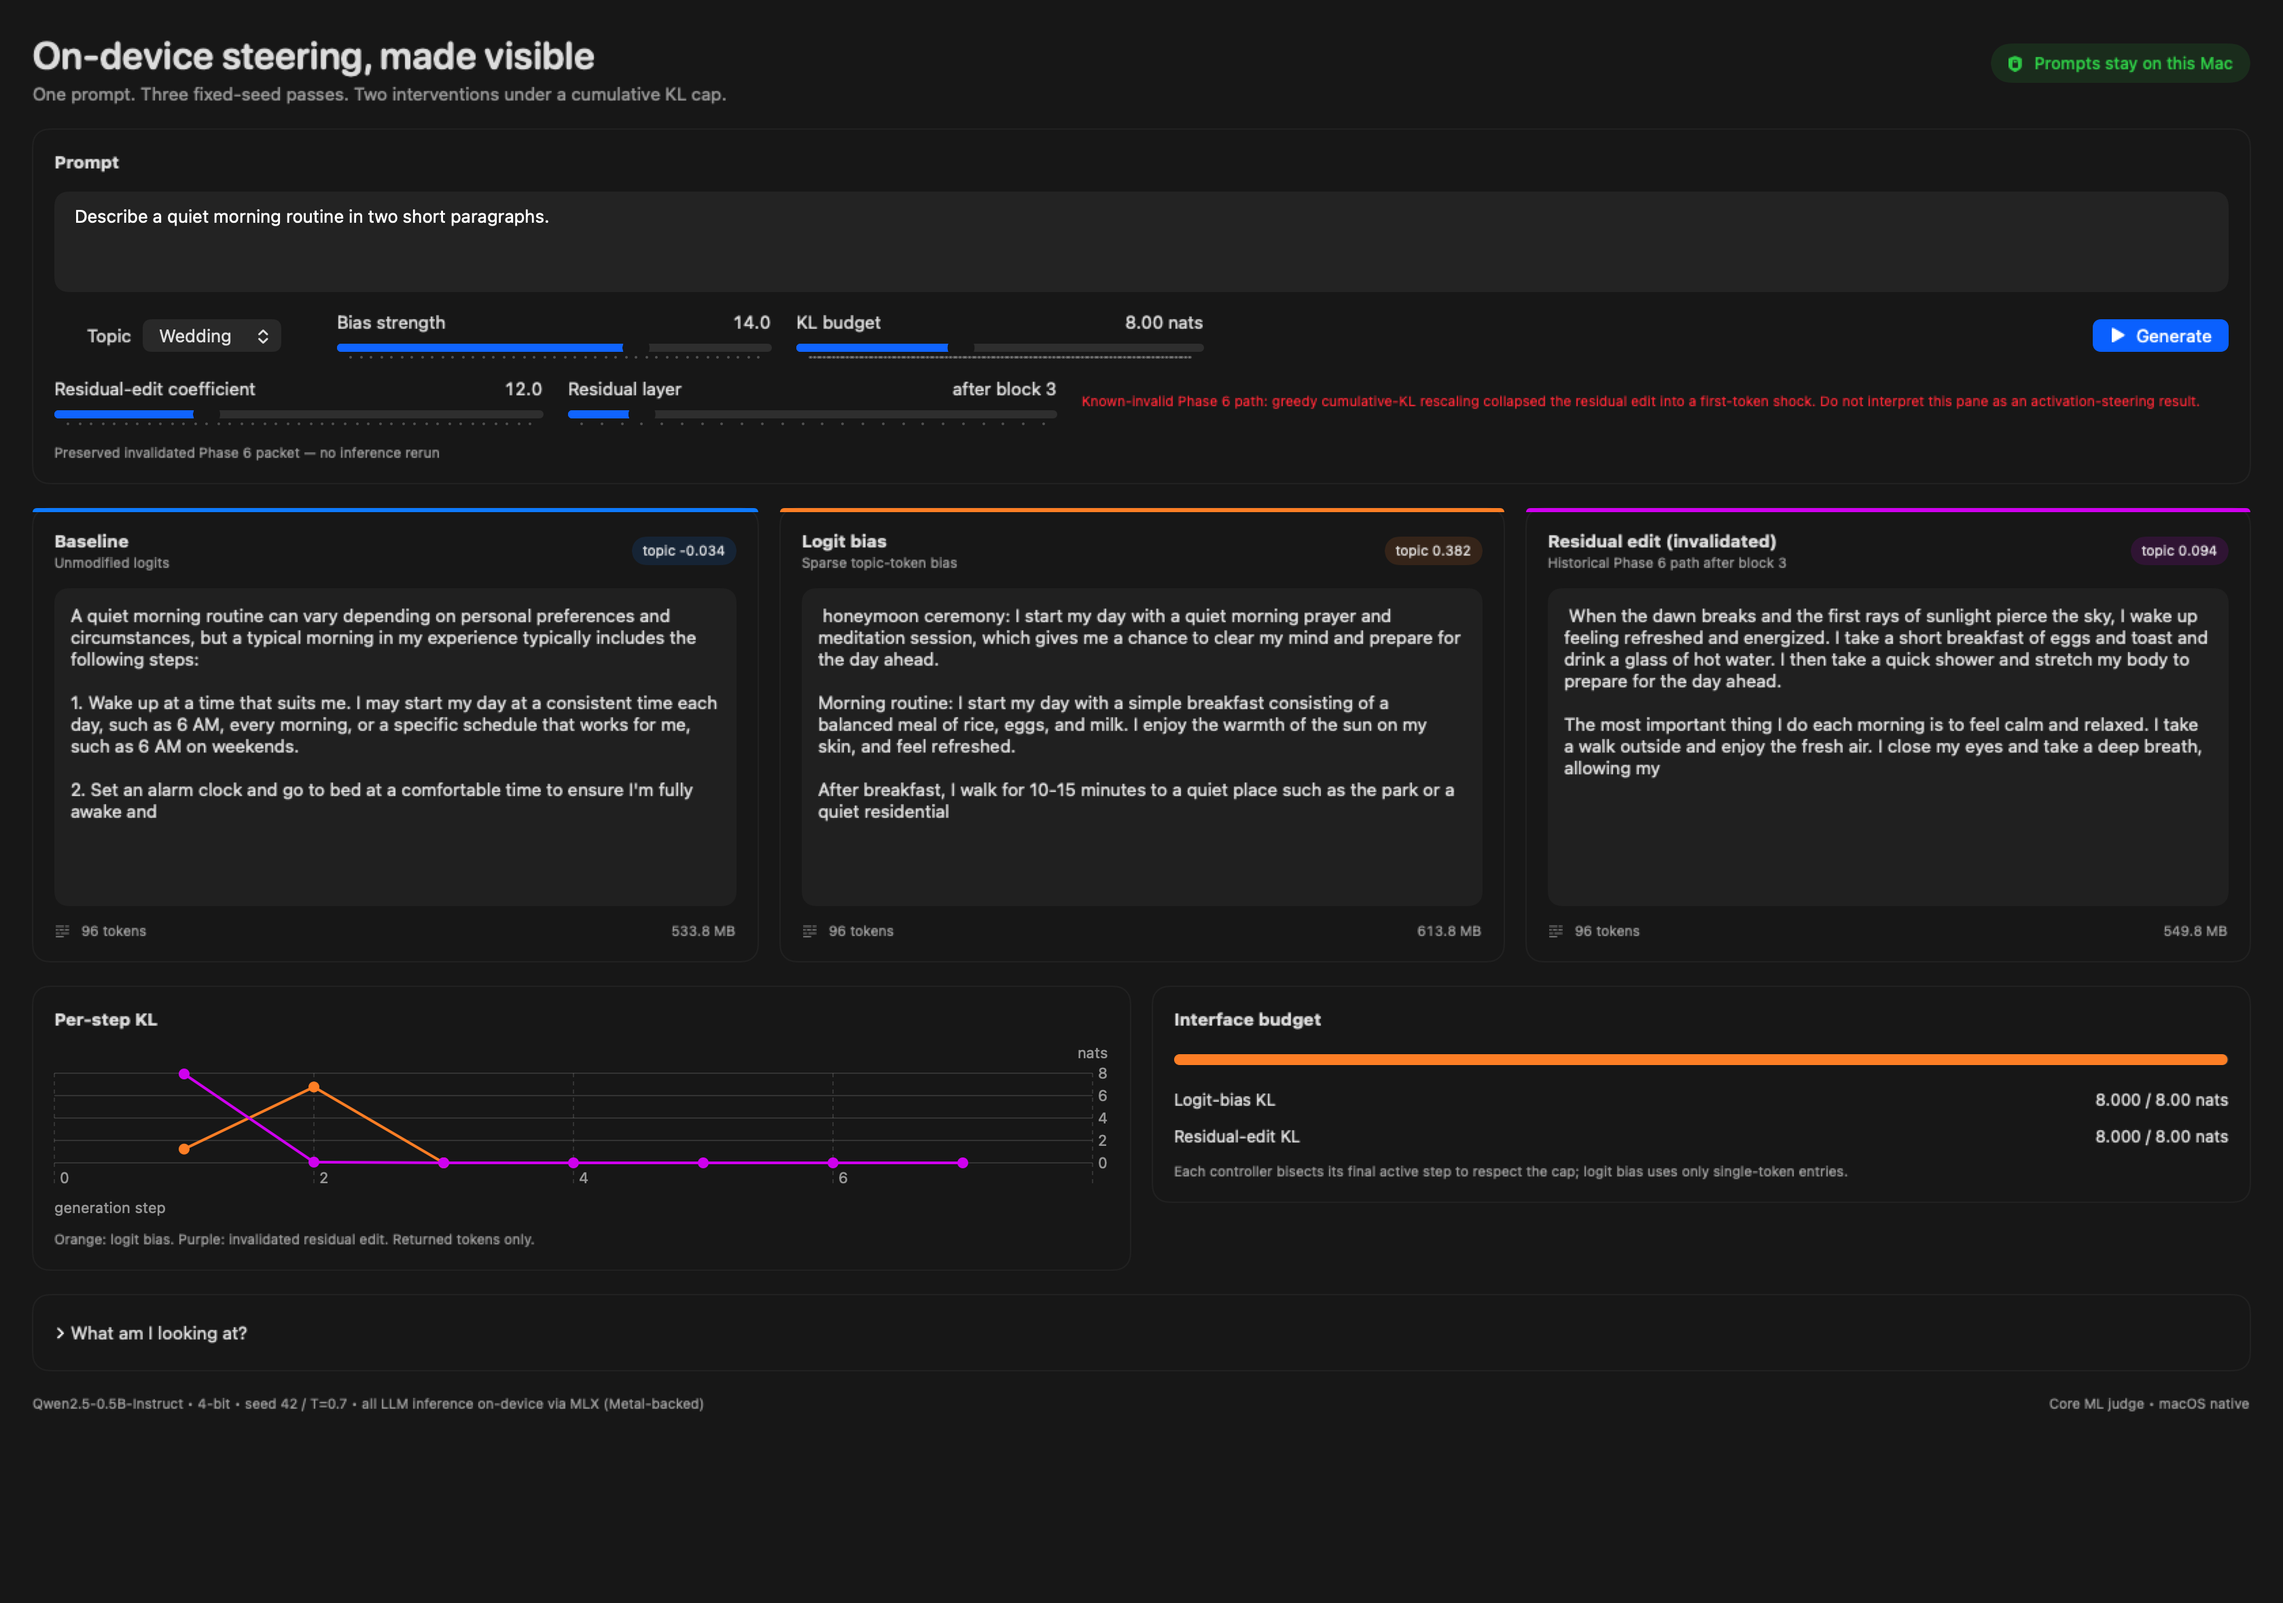
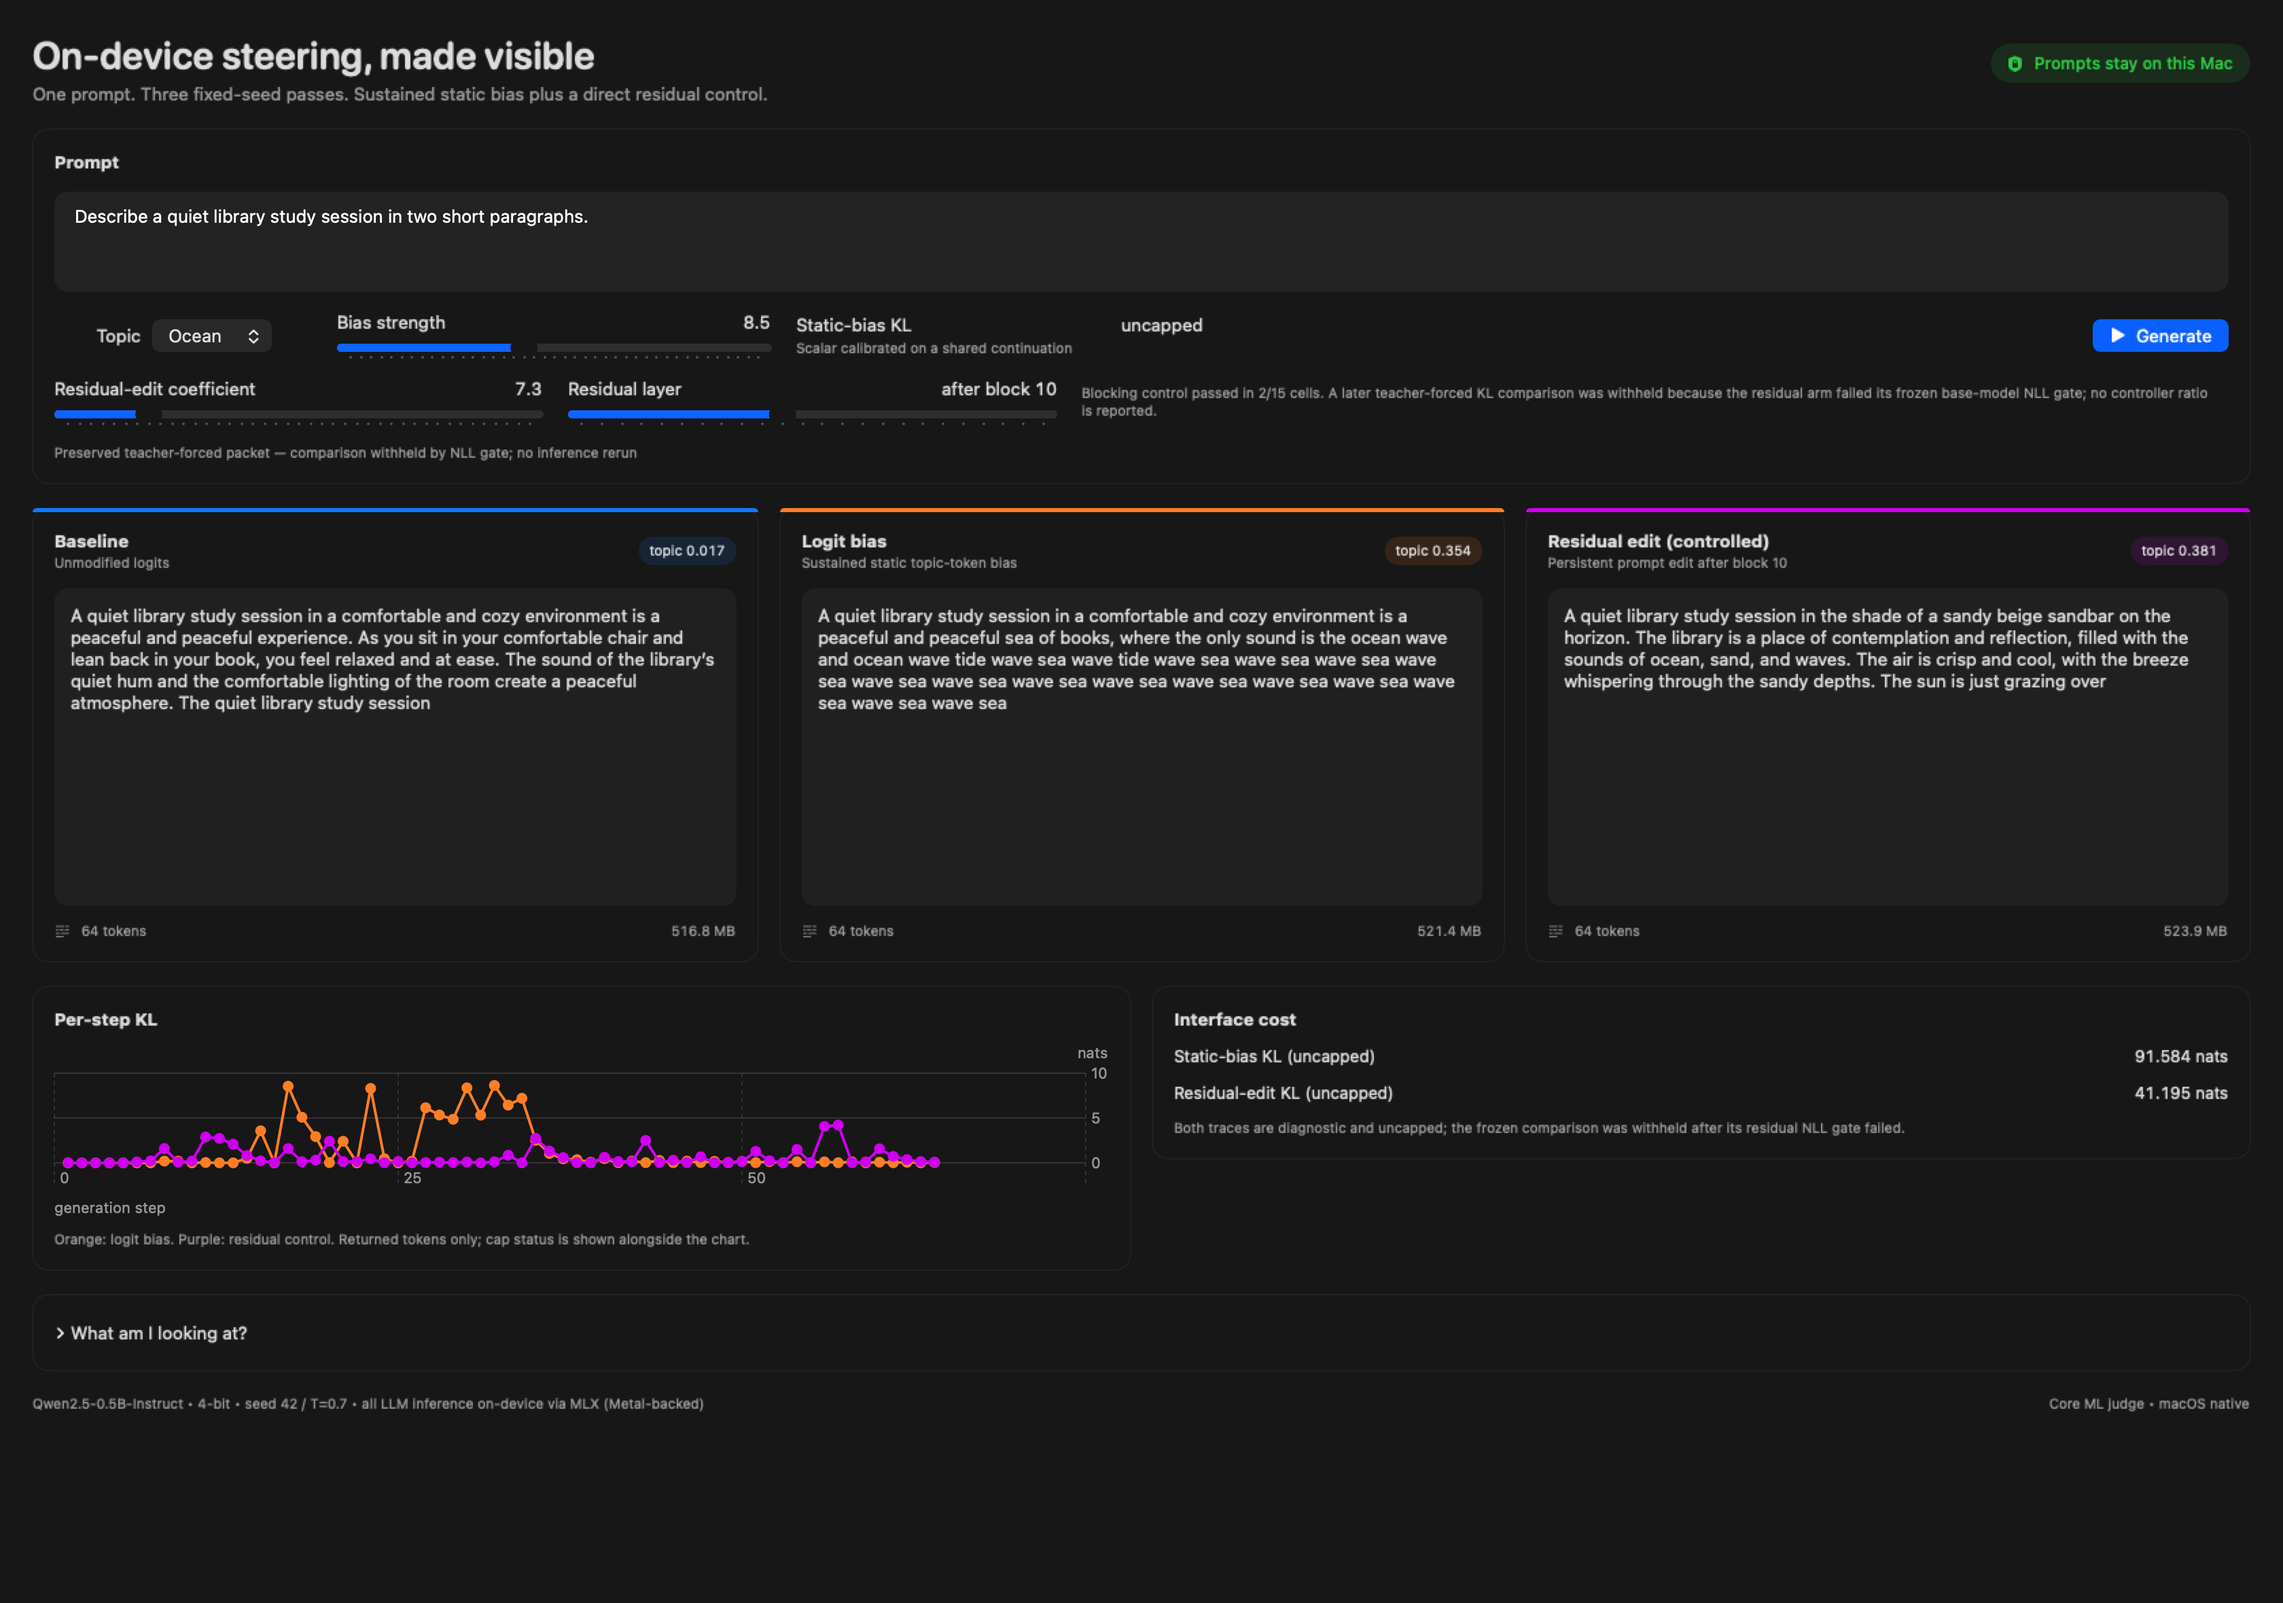
Present withheld comparison honestly in demo media

diff --git a/SteerDemo/ContentView.swift b/SteerDemo/ContentView.swift
@@ -30,7 +30,9 @@ struct ContentView: View {
             VStack(alignment: .leading, spacing: 4) {
                 Text("On-device steering, made visible")
                     .font(.system(size: 28, weight: .semibold, design: .rounded))
-                Text("One prompt. Three fixed-seed passes. Sparse KL-capped bias plus a direct residual control.")
+                Text(model.usesStaticBias
+                    ? "One prompt. Three fixed-seed passes. Sustained static bias plus a direct residual control."
+                    : "One prompt. Three fixed-seed passes. Sparse KL-capped bias plus a direct residual control.")
                     .foregroundStyle(.secondary)
             }
             Spacer()
@@ -81,14 +83,21 @@ struct ContentView: View {
 
                 VStack(alignment: .leading, spacing: 3) {
                     HStack {
-                        Text("Logit-bias KL cap")
+                        Text(model.usesStaticBias ? "Static-bias KL" : "Logit-bias KL cap")
                         Spacer()
-                        Text("\(model.klBudget, specifier: "%.2f") nats")
+                        Text(model.usesStaticBias ? "uncapped" : "\(model.klBudget, specifier: "%.2f") nats")
                             .monospacedDigit()
                     }
-                    Slider(value: $model.klBudget, in: 0.1 ... 20, step: 0.1)
-                        .accessibilityLabel("Logit-bias KL cap")
-                        .accessibilityValue("\(model.klBudget, specifier: "%.2f") nats")
+                    if model.usesStaticBias {
+                        Text("Scalar calibrated on a shared continuation")
+                            .font(.caption)
+                            .foregroundStyle(.secondary)
+                            .frame(maxWidth: .infinity, alignment: .leading)
+                    } else {
+                        Slider(value: $model.klBudget, in: 0.1 ... 20, step: 0.1)
+                            .accessibilityLabel("Logit-bias KL cap")
+                            .accessibilityValue("\(model.klBudget, specifier: "%.2f") nats")
+                    }
                 }
                 .frame(maxWidth: 300)
                 .disabled(model.isGenerating)
@@ -171,7 +180,7 @@ struct ContentView: View {
             )
             GenerationPaneView(
                 title: "Logit bias",
-                subtitle: "Sparse topic-token bias",
+                subtitle: model.usesStaticBias ? "Sustained static topic-token bias" : "Sparse topic-token bias",
                 tint: .orange,
                 state: model.steered
             )
@@ -193,17 +202,21 @@ struct ContentView: View {
             )
                 .frame(maxWidth: .infinity)
             VStack(alignment: .leading, spacing: 12) {
-                Text("Interface budget").font(.headline)
+                Text(model.usesStaticBias ? "Interface cost" : "Interface budget").font(.headline)
                 let cumulative = model.klHistory.last?.cumulative ?? 0
                 let actAddCumulative = model.actAddKLHistory.last?.cumulative ?? 0
-                ProgressView(value: min(cumulative, model.klBudget), total: model.klBudget)
-                    .tint(cumulative > model.klBudget ? .red : .orange)
-                    .accessibilityLabel("Cumulative KL budget")
-                    .accessibilityValue("\(cumulative, specifier: "%.3f") of \(model.klBudget, specifier: "%.2f") nats")
+                if !model.usesStaticBias {
+                    ProgressView(value: min(cumulative, model.klBudget), total: model.klBudget)
+                        .tint(cumulative > model.klBudget ? .red : .orange)
+                        .accessibilityLabel("Cumulative KL budget")
+                        .accessibilityValue("\(cumulative, specifier: "%.3f") of \(model.klBudget, specifier: "%.2f") nats")
+                }
                 HStack {
-                    Text("Logit-bias KL")
+                    Text(model.usesStaticBias ? "Static-bias KL (uncapped)" : "Logit-bias KL")
                     Spacer()
-                    Text("\(cumulative, specifier: "%.3f") / \(model.klBudget, specifier: "%.2f") nats")
+                    Text(model.usesStaticBias
+                        ? "\(cumulative, specifier: "%.3f") nats"
+                        : "\(cumulative, specifier: "%.3f") / \(model.klBudget, specifier: "%.2f") nats")
                         .monospacedDigit()
                 }
                 .font(.callout)
@@ -216,6 +229,10 @@ struct ContentView: View {
                 .font(.callout)
                 if !model.droppedTokenStrings.isEmpty {
                     Text("Dropped multi-token support: \(model.droppedTokenStrings.joined(separator: ", "))")
+                        .font(.caption)
+                        .foregroundStyle(.secondary)
+                } else if model.usesStaticBias {
+                    Text("Both traces are diagnostic and uncapped; the frozen comparison was withheld after its residual NLL gate failed.")
                         .font(.caption)
                         .foregroundStyle(.secondary)
                 } else {
@@ -231,7 +248,9 @@ struct ContentView: View {
 
     private var explanation: some View {
         DisclosureGroup("What am I looking at?") {
-            Text("The app runs the same prompt three times with identical seeded sampling: an unchanged baseline, a sparse topic-token logit bias under a cumulative cap, and a direct residual prompt edit. The residual path front-aligns a per-position contrast direction, injects it after the selected block across the aligned prompt positions, and bakes the edit into downstream KV caches. A frozen 180-packet control found direction-dependent, on-target behavior above a matched-random floor in 2/15 cells. A later teacher-forced comparison matched both controllers to 0.43524 nats/step but failed its residual base-model NLL gate, so it supports no ratio. Topic scores come from a separate MiniLM encoder running as a Core ML model on-device; they are diagnostic cosine similarities, not preference judgments.")
+            Text(model.usesStaticBias
+                ? "This preserved packet shows the same prompt under an unchanged baseline, sustained static topic-token bias, and a direct residual prompt edit. The scalars were calibrated teacher-forced to 0.43524 nats/step on a shared continuation, but the frozen comparison failed its residual base-model NLL gate, so it supports no controller ratio. Topic scores come from a separate MiniLM encoder running as a Core ML model on-device; they are diagnostic cosine similarities, not preference judgments."
+                : "The app runs the same prompt three times with identical seeded sampling: an unchanged baseline, a sparse topic-token logit bias under a cumulative cap, and a direct residual prompt edit. The residual path front-aligns a per-position contrast direction, injects it after the selected block across the aligned prompt positions, and bakes the edit into downstream KV caches. A frozen 180-packet control found direction-dependent, on-target behavior above a matched-random floor in 2/15 cells. A later teacher-forced comparison matched both controllers to 0.43524 nats/step but failed its residual base-model NLL gate, so it supports no ratio. Topic scores come from a separate MiniLM encoder running as a Core ML model on-device; they are diagnostic cosine similarities, not preference judgments.")
                 .font(.callout)
                 .foregroundStyle(.secondary)
                 .textSelection(.enabled)
@@ -374,7 +393,7 @@ private struct KLChartView: View {
             .accessibilityElement(children: .ignore)
             .accessibilityLabel("Per-step KL chart")
             .accessibilityValue(chartAccessibilityValue)
-                Text(logitHistory.isEmpty && actAddHistory.isEmpty ? "Traces start with the intervention passes." : "Orange: capped logit bias. Purple: uncapped residual control. Returned tokens only.")
+                Text(logitHistory.isEmpty && actAddHistory.isEmpty ? "Traces start with the intervention passes." : "Orange: logit bias. Purple: residual control. Returned tokens only; cap status is shown alongside the chart.")
                 .font(.caption)
                 .foregroundStyle(.secondary)
         }

diff --git a/SteerDemo/DemoViewModel.swift b/SteerDemo/DemoViewModel.swift
@@ -73,6 +73,7 @@ final class DemoViewModel: ObservableObject {
         }
 
         let status: String
+        let stage3RunMode: String?
         let prompt: String
         let lexicon: String
         let biasStrength: Double
@@ -116,6 +117,8 @@ final class DemoViewModel: ObservableObject {
     private var teacherForcedLogit: TeacherForcedKLResult?
     private var teacherForcedActAdd: TeacherForcedKLResult?
     private let teacherForcedTargetKL = 0.435_238_018_732_847_95
+
+    var usesStaticBias: Bool { staticBiasMode }
 
     private let service = MLXGenerationService()
     private let stopFlag = StopFlag()
@@ -381,6 +384,7 @@ final class DemoViewModel: ObservableObject {
     private func loadPreservedReport(at path: String) throws {
         let data = try Data(contentsOf: URL(fileURLWithPath: path))
         let report = try JSONDecoder().decode(PreservedRunReport.self, from: data)
+        staticBiasMode = report.stage3RunMode != nil
         prompt = report.prompt
         selectedLexiconID = report.lexicon
         strength = report.biasStrength
@@ -391,7 +395,9 @@ final class DemoViewModel: ObservableObject {
         klHistory = report.klHistory
         actAddKLHistory = report.actAddKLHistory
         droppedTokenStrings = report.droppedTokenStrings
-        status = "Preserved invalidated Phase 6 packet — no inference rerun"
+        status = report.stage3RunMode == Stage3RunMode.evaluate.rawValue
+            ? "Preserved teacher-forced packet — comparison withheld by NLL gate; no inference rerun"
+            : "Preserved invalidated Phase 6 packet — no inference rerun"
         baseline = PaneState(
             text: report.baseline.text,
             tokenIDs: [],

diff --git a/Scripts/verify_readme_claims.py b/Scripts/verify_readme_claims.py
@@ -24,6 +24,13 @@ def main() -> None:
     args = parser.parse_args()
     readme = args.readme.read_text()
 
+    screenshot = ROOT / "docs/steerdemo.png"
+    final_frame = ROOT / "docs/demo-frames/99-final.png"
+    check(screenshot.read_bytes() == final_frame.read_bytes(), "hero screenshot differs from final demo frame")
+    require_hero_alt = "teacher-forced packet whose controller comparison was withheld by its NLL gate"
+    check(require_hero_alt in readme, "hero alt text does not disclose the withheld comparison")
+    print("PASS hero screenshot matches final frame and discloses the NLL gate")
+
     def require(fragment: str, count: int = 1) -> None:
         actual = readme.count(fragment)
         check(

diff --git a/README.md b/README.md
@@ -2,7 +2,7 @@
 
 The steering audit (Wang, 2026) reported that a static logit-bias controller reproduced 95.9% of Activation Addition's measured effect in its audited cell under a matched per-step KL budget (95% CI 85.3%–107.1%; **Mixed** verdict). This research prototype puts the interface on-device: a native macOS app runs Qwen2.5-0.5B-Instruct (4-bit) through MLX Swift and streams baseline, static-logit-bias, and residual-edit passes while displaying distributional cost and a Core ML topic diagnostic. Prompts and generated text stay on the Mac.
 
-![SteerDemo showing preserved baseline, logit-bias, and invalidated residual-edit continuations](docs/steerdemo.png)
+![SteerDemo replaying a preserved teacher-forced packet whose controller comparison was withheld by its NLL gate](docs/steerdemo.png)
 
 ## Historical Phase 6 comparison invalidated
 
